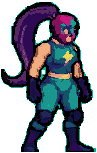
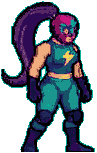
Modelo oficial sin filtros de reconstruccion: el nativo tal cual (0 px inventados)
volta_reconstruir.py / voltia_reconstruir.py estrena --filtros (0 por defecto): 0 = solo geometria, ÷4 NEAREST del nativo y x2 NEAREST a la hoja; 1 = masa local + islas + silueta + erosion (queda solo para comparar). Los nativos son un x4 exacto (0,00% de bloques 4x4 no uniformes), asi que ÷4 recupera el pixel original: comprobado frame a frame, los 102 frames son identicos pixel a pixel al nativo ÷4, 0 diferencias visibles. Lo que hacian los filtros: 949 px cambiados en el solo stance, borrando el brillo del ojo, el tono de la nariz y la punta de la coleta. Se pierde el 'grano' cosmetico (0,45% -> 7,13%, que es el dibujo: a 4x mide 0,00%) y se gana dibujo intacto. El borde verde queda el nativo, sin erosion. Stance medido: 94x151 px de arte (antes 95x150); height_px corregido a 151. Rev cbb0893173. README, GUIA_NUEVA y cabecera del visor actualizados; 63 referencias, 0 fallos.

diff --git a/preview/index.html b/preview/index.html
@@ -88,7 +88,7 @@
 </nav>
 <header>
   <h1>⚡ VOLTIA ⚡</h1>
-  <p style="margin:0 0 8px"><b style="color:#96ffeb">v1.2 · modelo oficial</b> — reconstruido desde los frames nativos, sin LANCZOS y sin grano.</p>
+  <p style="margin:0 0 8px"><b style="color:#96ffeb">v1.2 · modelo oficial</b> — el dibujo nativo tal cual: sin LANCZOS y sin ningún filtro de reconstrucción.</p>
   <p id="ver">cargando…</p>
   <a class="play" href="fight.html">Probar pelea · Voltia vs Voltia</a>
   <a class="play alt" href="guia-vieja.html">Guía de este personaje</a>

diff --git a/tools/voltia_reconstruir.py b/tools/voltia_reconstruir.py
@@ -193,7 +193,11 @@ def fuente(tam):
 
 def main():
     ap = argparse.ArgumentParser()
-    ap.add_argument('--comer', type=int, default=0, help='px de ARTE erosionados del contorno')
+    ap.add_argument('--filtros', type=int, default=0, choices=(0, 1),
+                    help='0 = solo geometria (÷4 y ×2 NEAREST), el pixel nativo tal cual; '
+                         '1 = limpieza de grano, islas y silueta (inventa pixeles)')
+    ap.add_argument('--comer', type=int, default=0, help='px de ARTE erosionados del contorno (solo con --filtros 1)')
+    ap.add_argument('--volcar', default='', help='escribe la hoja de prueba en esa ruta en vez de en el repositorio')
     ap.add_argument('--pasadas', type=int, default=3)
     ap.add_argument('--islas', type=int, default=3, help='tamano maximo de isla de color que se funde')
     ap.add_argument('--solo-ver', action='store_true', help='mide y no escribe la hoja')
@@ -212,10 +216,11 @@ def main():
             p = os.path.join(FRAMES, 'voltia_%s_%d.png' % (a['id'], i))
             nativo = Image.open(p).convert('RGBA')
             uno = nativo.resize((nativo.size[0] // NATIVO, nativo.size[1] // NATIVO), Image.NEAREST)
-            uno = limpiar(uno, args.pasadas)
-            uno = islas_de_color(uno, args.islas, 2)
-            uno = silueta_limpia(uno, 1)
-            if args.comer:
+            if args.filtros:
+                uno = limpiar(uno, args.pasadas)
+                uno = islas_de_color(uno, args.islas, 2)
+                uno = silueta_limpia(uno, 1)
+            if args.filtros and args.comer:
                 al = uno.split()[3]
                 for _ in range(args.comer):
                     al = al.filter(ImageFilter.MinFilter(3))
@@ -292,12 +297,23 @@ def main():
         print('(--solo-ver: no se ha tocado la hoja)')
         return
 
+    if args.volcar:
+        nueva.save(args.volcar)
+        print('hoja de prueba en %s (repositorio intacto)' % args.volcar)
+        return
+
     nueva.save(HOJA)
     rev = hashlib.md5(open(HOJA, 'rb').read()).hexdigest()[:10]
     meta['rev'] = rev
-    meta['notes'] = ('Reconstruida desde los frames nativos: ÷4 a 1x de arte con NEAREST, grano '
-                     'quitado por masa local (negro y cian protegidos), %d px de arte comidos del '
-                     'contorno, y ×2 NEAREST a la hoja. Sin LANCZOS en ningun paso.' % args.comer)
+    if args.filtros:
+        meta['notes'] = ('Reconstruida desde los frames nativos: ÷4 a 1x de arte con NEAREST, grano '
+                         'quitado por masa local (negro y cian protegidos), %d px de arte comidos del '
+                         'contorno, y ×2 NEAREST a la hoja. Sin LANCZOS en ningun paso.' % args.comer)
+    else:
+        meta['notes'] = ('Reconstruida desde los frames nativos SIN filtros: ÷4 NEAREST a 1x de arte '
+                         '(los nativos son un x4 exacto, 0.00% de bloques 4x4 no uniformes) y ×2 '
+                         'NEAREST a la hoja. Ni limpieza, ni islas, ni silueta, ni erosion: el pixel '
+                         'nativo tal cual. Sin LANCZOS en ningun paso.')
     json.dump(meta, open(META, 'w'), indent=1)
     nueva.crop((0, 0, cw, ch)).crop(CAJA_FIGHTER).resize(FIGHTER, Image.NEAREST).save(STAGE)
     print('hoja %s rev %s | fighter %s' % (HOJA, rev, STAGE))

diff --git a/voltia/nuevo/GUIA_NUEVA.md b/voltia/nuevo/GUIA_NUEVA.md
@@ -50,7 +50,8 @@ ninguno de sus 8 vecinos):
 | el mismo, a 1× de arte (97 × 153) | **7,13 %** |
 
 O sea: la rejilla 4× es perfecta, pero un nivel por debajo el dibujo ya trae color suelto.
-Por eso limpiar «tal cual» no sirve: hay que limpiar **en la resolución real de arte**.
+**Ese color suelto es dibujo, no un fallo del proceso**, y por eso el modelo oficial no lo
+toca: se entrega el nativo tal cual (`--filtros 0`).
 
 ## Pipeline oficial de Voltia
 
@@ -61,31 +62,40 @@ python3 tools/voltia_reconstruir.py
 Por frame, cero LANCZOS:
 
 1. **÷4 NEAREST** del nativo → 1× de arte (el píxel real del dibujo);
-2. **limpieza por masa local**: si el color de un píxel aparece **≤ 3 veces** en su
-   entorno 5×5, pasa al color mayoritario de sus 8 vecinos. Se **protegen** el negro de
-   línea `(1,1,2)` y el cian del borde `(5,176,157)` (sin protegerlos se borra el borde
-   verde, que es intencionado);
-3. **islas de color**: toda región conexa de **≤ 3 px** de un mismo color se funde con el
-   color mayoritario de su contorno. Es lo que quita el cuadradito suelto en la cara o en
-   la coleta, que la masa local no ve (ese color sí tiene vecinos, solo que en otro sitio);
-4. **silueta limpia**: cierra muescas de 1 px y quita salientes de 1 px. La muesca recién
-   rellenada **hereda el color de su vecino**; si no, queda un `(0,0,0)` suelto y la paleta
-   pasa de 18 a 2715 colores (pasó, y se vio en la comprobación de colores, no a ojo);
-5. **−1 px de arte de contorno**: ajusta el grosor y quita la dentadura que deja la
-   protección del cian;
-6. **×2 NEAREST** a la hoja y pegado **alineado a par**.
+2. **×2 NEAREST** a la hoja, pegado alineado a par.
 
-Resultado medido en el stance a 1× de arte:
+**Eso es todo.** Ni limpieza, ni islas, ni silueta, ni erosión: **0 filtros de
+reconstrucción**. Los frames nativos son un ×4 exacto (0,00 % de bloques 4×4 no uniformes),
+así que ÷4 NEAREST recupera el píxel original y el sprite es **el dibujo nativo tal cual**.
 
-| | nativo | antes de la limpieza final | ahora |
+Comprobado frame a frame: los 102 frames de la hoja son **idénticos píxel a píxel** al nativo
+÷4 (0 diferencias visibles; solo cambia el RGB de los píxeles con alfa 0, que no se ven).
+
+### Lo que ya no se hace, y por qué
+
+Las versiones anteriores pasaban tres filtros (masa local, islas de color, silueta de 1 px) y
+luego comían 1 px de arte del contorno. Bajaban el «grano» medido de 7,13 % a 0,45 %, pero
+**borraban dibujo**: el brillo del ojo, el tono de la nariz, la punta de la coleta y 949
+píxeles del solo stance. Ese número bajo no era calidad, era detalle perdido. Se quedan en el
+código detrás de `--filtros 1` solo para poder comparar; **el modelo oficial se hace con
+`--filtros 0`**, que es el valor por defecto.
+
+### Las medidas, sin maquillar
+
+| stance a 1× de arte | nativo | con filtros (`--filtros 1`) | **oficial (0 filtros)** |
 |---|---|---|---|
-| píxeles aislados | 7,13 % | 1,47 % | **0,45 %** |
-| islas de color ≤ 4 px | 876 | 213 | **115** |
+| «grano» (aislados) | 7,13 % | 0,45 % | **7,13 %** |
+| islas de color ≤ 4 px | 876 | 115 | **876** |
 | bloques 2×2 sucios | — | 0,00 % | **0,00 %** |
 | colores opacos | 18 | 18 | **18** |
+| píxeles inventados | — | 949 | **0** |
 
-Referencia de arte real en el repo (Chun-Li): **2,85 %** de píxeles aislados. Voltia está
-por debajo.
+El «grano» de 7,13 % es del dibujo, no del proceso: a 4× es 0,00 % porque cada píxel de arte
+ocupa un bloque 4×4. Referencia de arte real en el repo (Chun-Li, SF2): 2,85 %. Es decir,
+Voltia dibuja más suelto que el arte original de SF2; eso solo se arregla redibujando el
+nativo, no con filtros.
+
+Tamaño medido del stance: **94 × 151 px de arte** (antes, con la erosión, 95 × 150).
 
 ## Chun-Li
 

diff --git a/README.md b/README.md
@@ -32,7 +32,10 @@ mucho y el navegador cacheando HTML/PNG ya nos costó tres veces «los cambios n
 | fuente | `voltia/frames/voltia_<anim>_<n>.png`, **rejilla de píxel exacta de 4×** |
 | animaciones | **25** · **102** frames |
 
-El modelo oficial es **borde verde + contorno comido −1 px de arte + grano limpiado**.
+El modelo oficial es **el dibujo nativo tal cual**: borde verde, **0 filtros de
+reconstrucción**. No se limpia el grano, no se erosiona el contorno, no se rellena la
+silueta. Cualquier filtro que se aplique después inventa píxeles y borra dibujo (el brillo del
+ojo, la punta de la coleta): por eso se quitaron.
 La hoja se genera entera con:
 
 ```bash
@@ -40,9 +43,12 @@ python3 tools/voltia_reconstruir.py            # hoja + sheet.json + fighter del
 python3 tools/voltia_reconstruir.py --solo-ver # solo comparaciones, no escribe
 ```
 
-Pipeline, por frame: `÷4 NEAREST` a 1× de arte → limpieza de grano por masa local
-(protegiendo el negro de línea y el cian del borde) → `−1 px` de arte de contorno →
-`×2 NEAREST` a la hoja, pegado alineado a par.
+Pipeline, por frame: `÷4 NEAREST` a 1× de arte → `×2 NEAREST` a la hoja, pegado alineado a
+par. Nada más. Los frames nativos son un ×4 exacto (0,00 % de bloques 4×4 no uniformes), así
+que ÷4 recupera el píxel original: los 102 frames de la hoja son **idénticos píxel a píxel**
+al nativo (comprobado, 0 diferencias visibles).
+
+Los filtros siguen en el código detrás de `--filtros 1` solo para comparar; no son el modelo.
 
 > **Regla que no se negocia:** al pixel art **nunca** se le aplica un reescalado con
 > interpolación (LANCZOS/BILINEAR) ni un factor fraccionario. Eso inventa medios píxeles,
